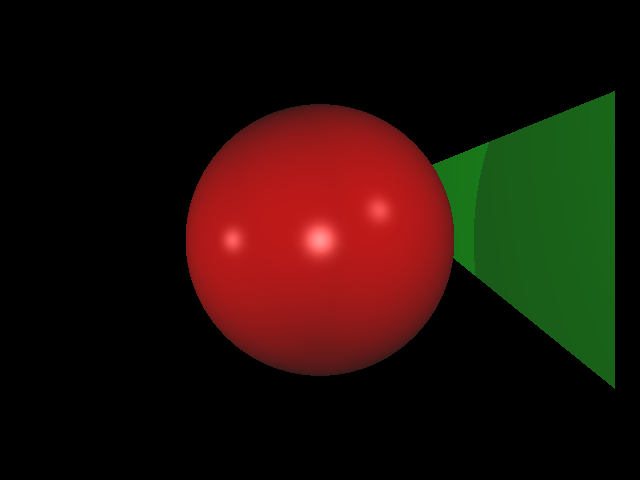
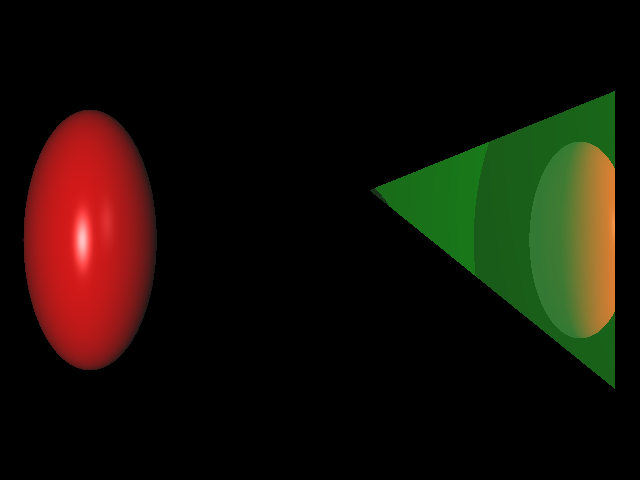
added transform support

diff --git a/RaytracerHW/Src/Raytracer.cpp b/RaytracerHW/Src/Raytracer.cpp
@@ -19,7 +19,8 @@ auto Raytracer::Trace(const Ray& ray, const glm::vec3& eyePos, uint32_t depth) c
     std::optional<Intersection> closestIntersection{};
     for (const auto& s : mShapes)
     {
-        if (const auto intersection = s->Intersect(ray))
+        const Ray tempRay = glm::inverse(s->GetTransform()) * ray;
+        if (const auto intersection = s->Intersect(tempRay))
         {
             if (!closestIntersection)
             {
@@ -35,12 +36,15 @@ auto Raytracer::Trace(const Ray& ray, const glm::vec3& eyePos, uint32_t depth) c
     if (!closestIntersection)
         return {};
 
+    closestIntersection->mLocalGeo = closestIntersection->mShape.GetTransform() * closestIntersection->mLocalGeo;
+
     glm::vec3 color{};
     for (const auto& l : mLights)
     {
-        const auto lightRay = l->GenerateLightRay(closestIntersection->mLocalGeo.mPos);
-        if (std::any_of(
-                mShapes.cbegin(), mShapes.cend(), [&lightRay](const auto& s) { return s->Intersect(lightRay); }))
+        const auto lightRay = glm::inverse(closestIntersection->mShape.GetTransform()) *
+                              l->GenerateLightRay(closestIntersection->mLocalGeo.mPos);
+
+        if (std::any_of(mShapes.cbegin(), mShapes.cend(), [&](const auto& s) { return s->Intersect(lightRay); }))
             continue;
 
         const auto lightDir = l->GetLightDirection(closestIntersection->mLocalGeo.mPos);
@@ -62,8 +66,9 @@ auto Raytracer::Trace(const Ray& ray, const glm::vec3& eyePos, uint32_t depth) c
     const float kr = closestIntersection->mShape.GetMaterial().mKr;
     if (kr > 0.0f)
     {
-        const auto reflectedVec = glm::reflect(ray.mDir, closestIntersection->mLocalGeo.mNormal);
-        const Ray reflectedRay{closestIntersection->mLocalGeo.mPos, glm::normalize(reflectedVec)};
+        const Ray tempRay = glm::inverse(closestIntersection->mShape.GetTransform()) * ray;
+        const auto reflectedVec = glm::reflect(tempRay.mDir, closestIntersection->mLocalGeo.mNormal);
+        const Ray reflectedRay{ closestIntersection->mLocalGeo.mPos, glm::normalize(reflectedVec) };
 
         const auto tempColor = Trace(reflectedRay, eyePos, ++depth);
 

diff --git a/RaytracerHW/Src/Ray.hpp b/RaytracerHW/Src/Ray.hpp
@@ -1,6 +1,7 @@
 #pragma once
 
-#include <glm\vec3.hpp>
+#include <glm\glm.hpp>
+#include <glm\gtc\matrix_transform.hpp>
 #include "Config.hpp"
 
 #include <utility>
@@ -14,6 +15,17 @@ public:
         , mTMax(tMax)
         , mTMin(tMin)
     {
+    }
+
+    constexpr auto operator*(const glm::mat4& mat) const -> Ray
+    {
+        return Ray{ glm::vec3(mat * glm::vec4(mOrigin, 1.0f)),
+                    glm::normalize(glm::vec3(mat * glm::vec4(mDir, 0.0f))) };
+    }
+
+    constexpr friend auto operator*(glm::mat4 mat, const Ray& ray) -> Ray
+    {
+        return ray * mat;
     }
 
 public:

diff --git a/RaytracerHW/Src/LocalGeo.hpp b/RaytracerHW/Src/LocalGeo.hpp
@@ -14,6 +14,18 @@ public:
     {
     }
 
+    auto operator*(const glm::mat4& mat) const -> LocalGeo
+    {
+        return LocalGeo{ glm::vec3(mat * glm::vec4(mPos, 1.0f)),
+                         glm::normalize(glm::vec3(glm::transpose(glm::inverse(mat)) * glm::vec4(mNormal, 0.0f))),
+                         mHitDistance };
+    }
+
+    friend auto operator*(const glm::mat4& mat, const LocalGeo& local) -> LocalGeo
+    {
+        return local * mat;
+    }
+
 public:
     glm::vec3 mPos;
     glm::vec3 mNormal;

diff --git a/RaytracerHW/Src/Shape.hpp b/RaytracerHW/Src/Shape.hpp
@@ -19,12 +19,18 @@ public:
     Shade(const glm::vec3& lightDir, glm::vec3 lightColor, const LocalGeo& localGeo, const glm::vec3& halfVec) const
         -> glm::vec3;
 
+    auto GetTransform() const -> const glm::mat4&
+    {
+        return mTransformation;
+    }
     auto GetMaterial() const -> const Material&
     {
         return mMaterial;
     }
 
+protected:
+    glm::mat4 mTransformation{ 1.0f };
+
 private:
     Material mMaterial;
-    glm::mat4 mTransformation{ 1.0f };
 };

diff --git a/RaytracerHW/Src/Sphere.cpp b/RaytracerHW/Src/Sphere.cpp
@@ -9,6 +9,8 @@ Sphere::Sphere(Material material, glm::vec3 center, float radius)
     , mCenter(std::move(center))
     , mRadius(radius)
 {
+    mTransformation = glm::translate(mTransformation, glm::vec3{ 2.f, 0.0f, 3.0f }) *
+                      glm::scale(mTransformation, glm::vec3{ 0.75f, 1.5f, 0.75f });
 }
 
 auto Sphere::Intersect(const Ray& ray) const -> std::optional<Intersection>
